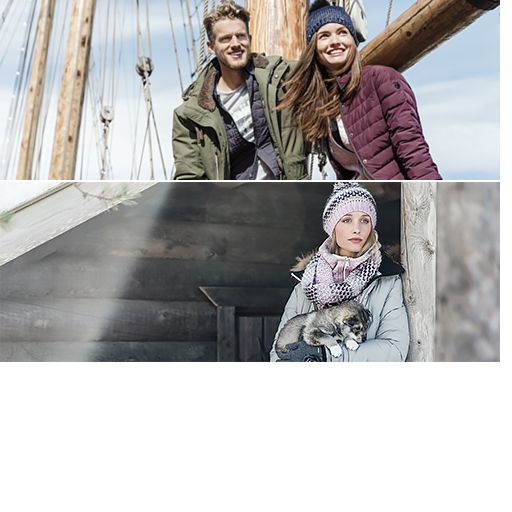
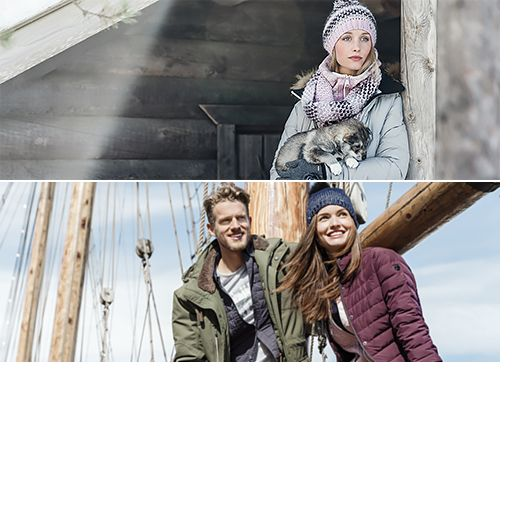
Update

diff --git a/banners/luhta/yandex/728x90/728x90.js b/banners/luhta/yandex/728x90/728x90.js
@@ -8,7 +8,7 @@ var gFontsUpdateCacheList = [];
 var tFontsUpdateCacheList = [];
 lib.ssMetadata = [
 		{name:"728x90_atlas_P_", frames: [[241,0,202,230],[0,0,239,220],[0,284,549,9],[0,222,131,60]]},
-		{name:"728x90_atlas_NP_", frames: [[0,182,500,180],[0,0,500,180]]}
+		{name:"728x90_atlas_NP_", frames: [[0,0,500,180],[0,182,500,180]]}
 ];
 
 
@@ -634,9 +634,11 @@ function getMCSymbolPrototype(symbol, nominalBounds, frameBounds) {
 	// logo
 	this.instance_4 = new lib.ghghgh();
 	this.instance_4.parent = this;
-	this.instance_4.setTransform(611.8,46);
+	this.instance_4.setTransform(611.8,46,0.5,0.5);
+	this.instance_4.alpha = 0;
+	this.instance_4._off = true;
 
-	this.timeline.addTween(cjs.Tween.get(this.instance_4).wait(362));
+	this.timeline.addTween(cjs.Tween.get(this.instance_4).wait(71).to({_off:false},0).to({scaleX:1,scaleY:1,alpha:1},8).wait(272).to({regY:-1,y:44.2},0).wait(1).to({y:41.3},0).wait(1).to({y:35.1},0).wait(1).to({y:23.7},0).wait(1).to({y:4.3},0).wait(1).to({y:-18},0).wait(1).to({y:-32.7},0).wait(1).to({y:-40.4},0).wait(1).to({y:-44},0).wait(1).to({regY:0},0).wait(2));
 
 	// 2
 	this.instance_5 = new lib.bbvv();
@@ -679,23 +681,23 @@ function getMCSymbolPrototype(symbol, nominalBounds, frameBounds) {
 	this.instance_9.alpha = 0;
 	this.instance_9._off = true;
 
-	this.timeline.addTween(cjs.Tween.get(this.instance_9).wait(15).to({_off:false},0).to({alpha:1},7).wait(42).to({alpha:0},5).to({_off:true},1).wait(292));
+	this.timeline.addTween(cjs.Tween.get(this.instance_9).wait(17).to({_off:false},0).to({alpha:1},7).wait(40).to({alpha:0},5).to({_off:true},1).wait(292));
 
 	// skidka
 	this.instance_10 = new lib.ggg();
 	this.instance_10.parent = this;
-	this.instance_10.setTransform(234.3,48,0.5,0.5);
+	this.instance_10.setTransform(354.3,48,0.5,0.5);
 	this.instance_10._off = true;
 
-	this.timeline.addTween(cjs.Tween.get(this.instance_10).wait(7).to({_off:false},0).to({scaleX:1,scaleY:1,x:231,y:51},7,cjs.Ease.get(1)).wait(49).to({regX:0.1,regY:0.1,scaleX:0.5,scaleY:0.5,x:229.7,y:49.9,alpha:0.301},7,cjs.Ease.get(-1)).to({_off:true},1).wait(291));
+	this.timeline.addTween(cjs.Tween.get(this.instance_10).wait(4).to({_off:false},0).to({scaleX:1,scaleY:1,x:351,y:51},7,cjs.Ease.get(1)).wait(52).to({regX:0.1,regY:0.1,scaleX:0.5,scaleY:0.5,x:349.7,y:49.9,alpha:0.301},7,cjs.Ease.get(-1)).to({_off:true},1).wait(291));
 
 	// date
 	this.instance_11 = new lib.qwe();
 	this.instance_11.parent = this;
-	this.instance_11.setTransform(408.4,-15);
+	this.instance_11.setTransform(558.4,-15);
 	this.instance_11._off = true;
 
-	this.timeline.addTween(cjs.Tween.get(this.instance_11).wait(16).to({_off:false},0).wait(1).to({y:-14.2},0).wait(1).to({y:-11.4},0).wait(1).to({y:-5.8},0).wait(1).to({y:3.6},0).wait(1).to({y:16},0).wait(1).to({y:28},0).wait(1).to({y:36.6},0).wait(1).to({y:41.7},0).wait(1).to({y:44.3},0).wait(1).to({y:45},0).wait(35).to({scaleX:0.8,scaleY:0.8,x:418,alpha:0.301},7,cjs.Ease.get(-1)).to({_off:true},1).wait(293));
+	this.timeline.addTween(cjs.Tween.get(this.instance_11).wait(8).to({_off:false},0).wait(1).to({y:-14.2},0).wait(1).to({y:-11.4},0).wait(1).to({y:-5.8},0).wait(1).to({y:3.6},0).wait(1).to({y:16},0).wait(1).to({y:28},0).wait(1).to({y:36.6},0).wait(1).to({y:41.7},0).wait(1).to({y:44.3},0).wait(1).to({y:45},0).wait(43).to({scaleX:0.8,scaleY:0.8,x:568,alpha:0.301},7,cjs.Ease.get(-1)).to({_off:true},1).wait(293));
 
 	// mania
 	this.instance_12 = new lib.hhh();

diff --git a/banners/luhta/yandex/160x600/160x600.js b/banners/luhta/yandex/160x600/160x600.js
@@ -635,9 +635,11 @@ function getMCSymbolPrototype(symbol, nominalBounds, frameBounds) {
 	// logo
 	this.instance_4 = new lib.ghghgh();
 	this.instance_4.parent = this;
-	this.instance_4.setTransform(80.4,547.4,0.72,0.72);
+	this.instance_4.setTransform(80.4,547.4,0.3,0.3,0,0,0,0.1,0.1);
+	this.instance_4.alpha = 0.301;
+	this.instance_4._off = true;
 
-	this.timeline.addTween(cjs.Tween.get(this.instance_4).wait(362));
+	this.timeline.addTween(cjs.Tween.get(this.instance_4).wait(72).to({_off:false},0).to({regX:0,regY:0,scaleX:0.72,scaleY:0.72,alpha:1},7).wait(270).to({x:81.6},0).wait(1).to({x:86},0).wait(1).to({x:94.7},0).wait(1).to({x:109.6},0).wait(1).to({x:133.2},0).wait(1).to({x:166.3},0).wait(1).to({x:201.3},0).wait(1).to({x:227.7},0).wait(1).to({x:244.4},0).wait(1).to({x:254.1},0).wait(1).to({x:259},0).wait(1).to({x:260.4},0).wait(2));
 
 	// 2
 	this.instance_5 = new lib.bbvv();
@@ -677,7 +679,7 @@ function getMCSymbolPrototype(symbol, nominalBounds, frameBounds) {
 	// Слой 1
 	this.instance_9 = new lib.dfgd();
 	this.instance_9.parent = this;
-	this.instance_9.setTransform(80,319,1,1,0,0,0,108,11);
+	this.instance_9.setTransform(80,469,1,1,0,0,0,108,11);
 	this.instance_9.alpha = 0;
 	this.instance_9._off = true;
 
